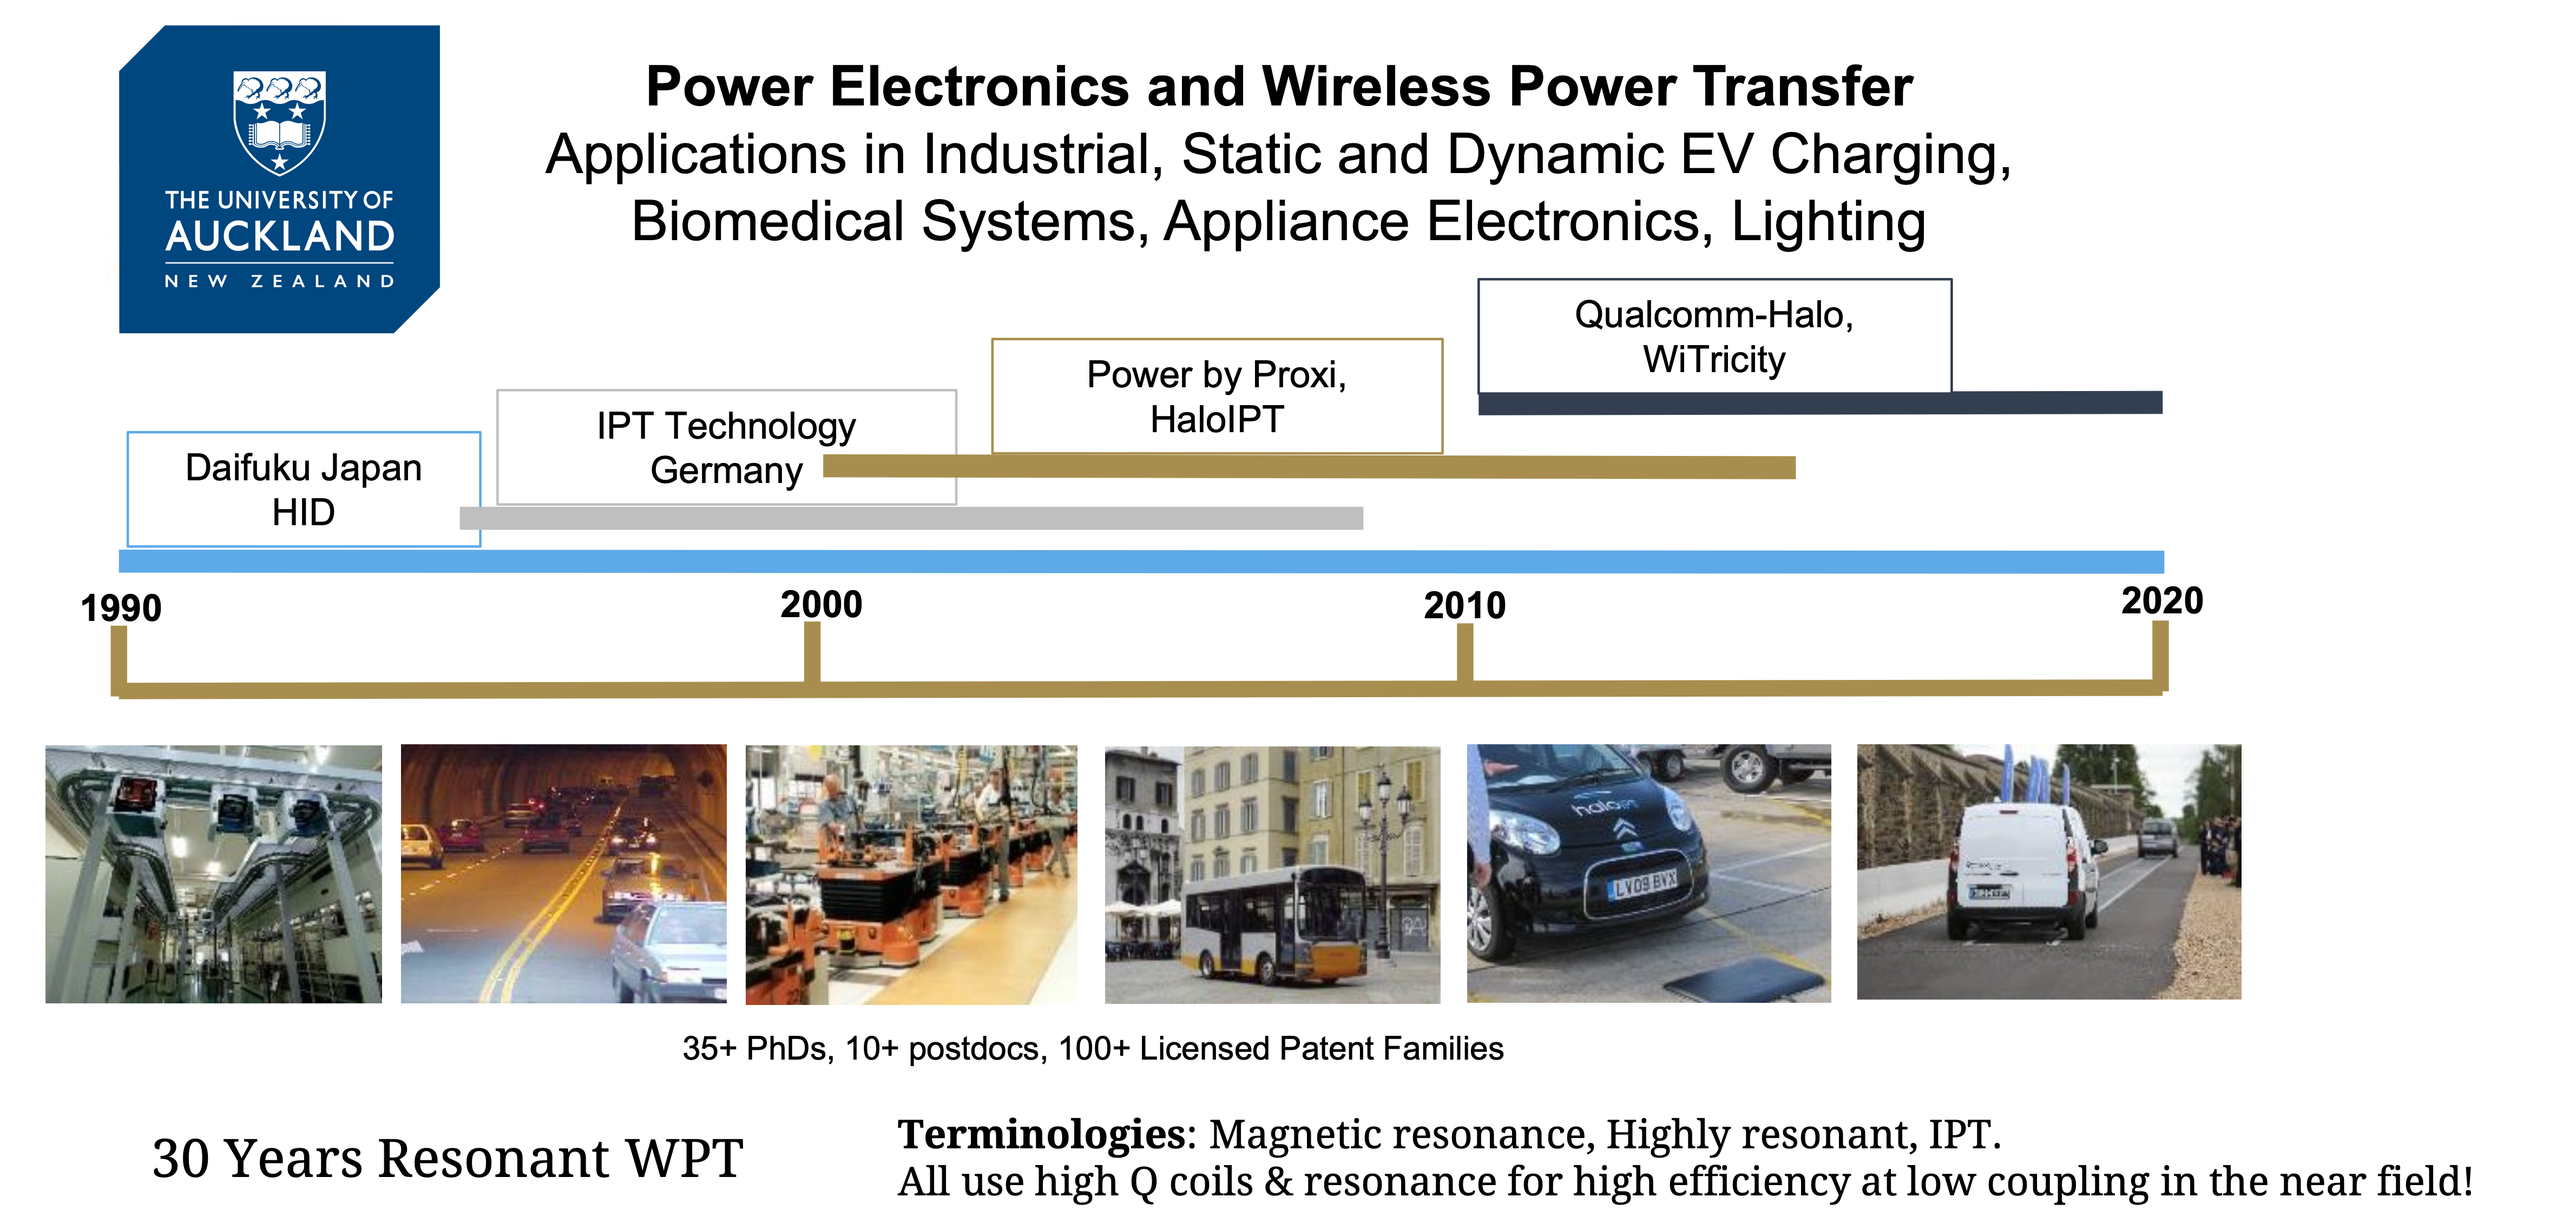
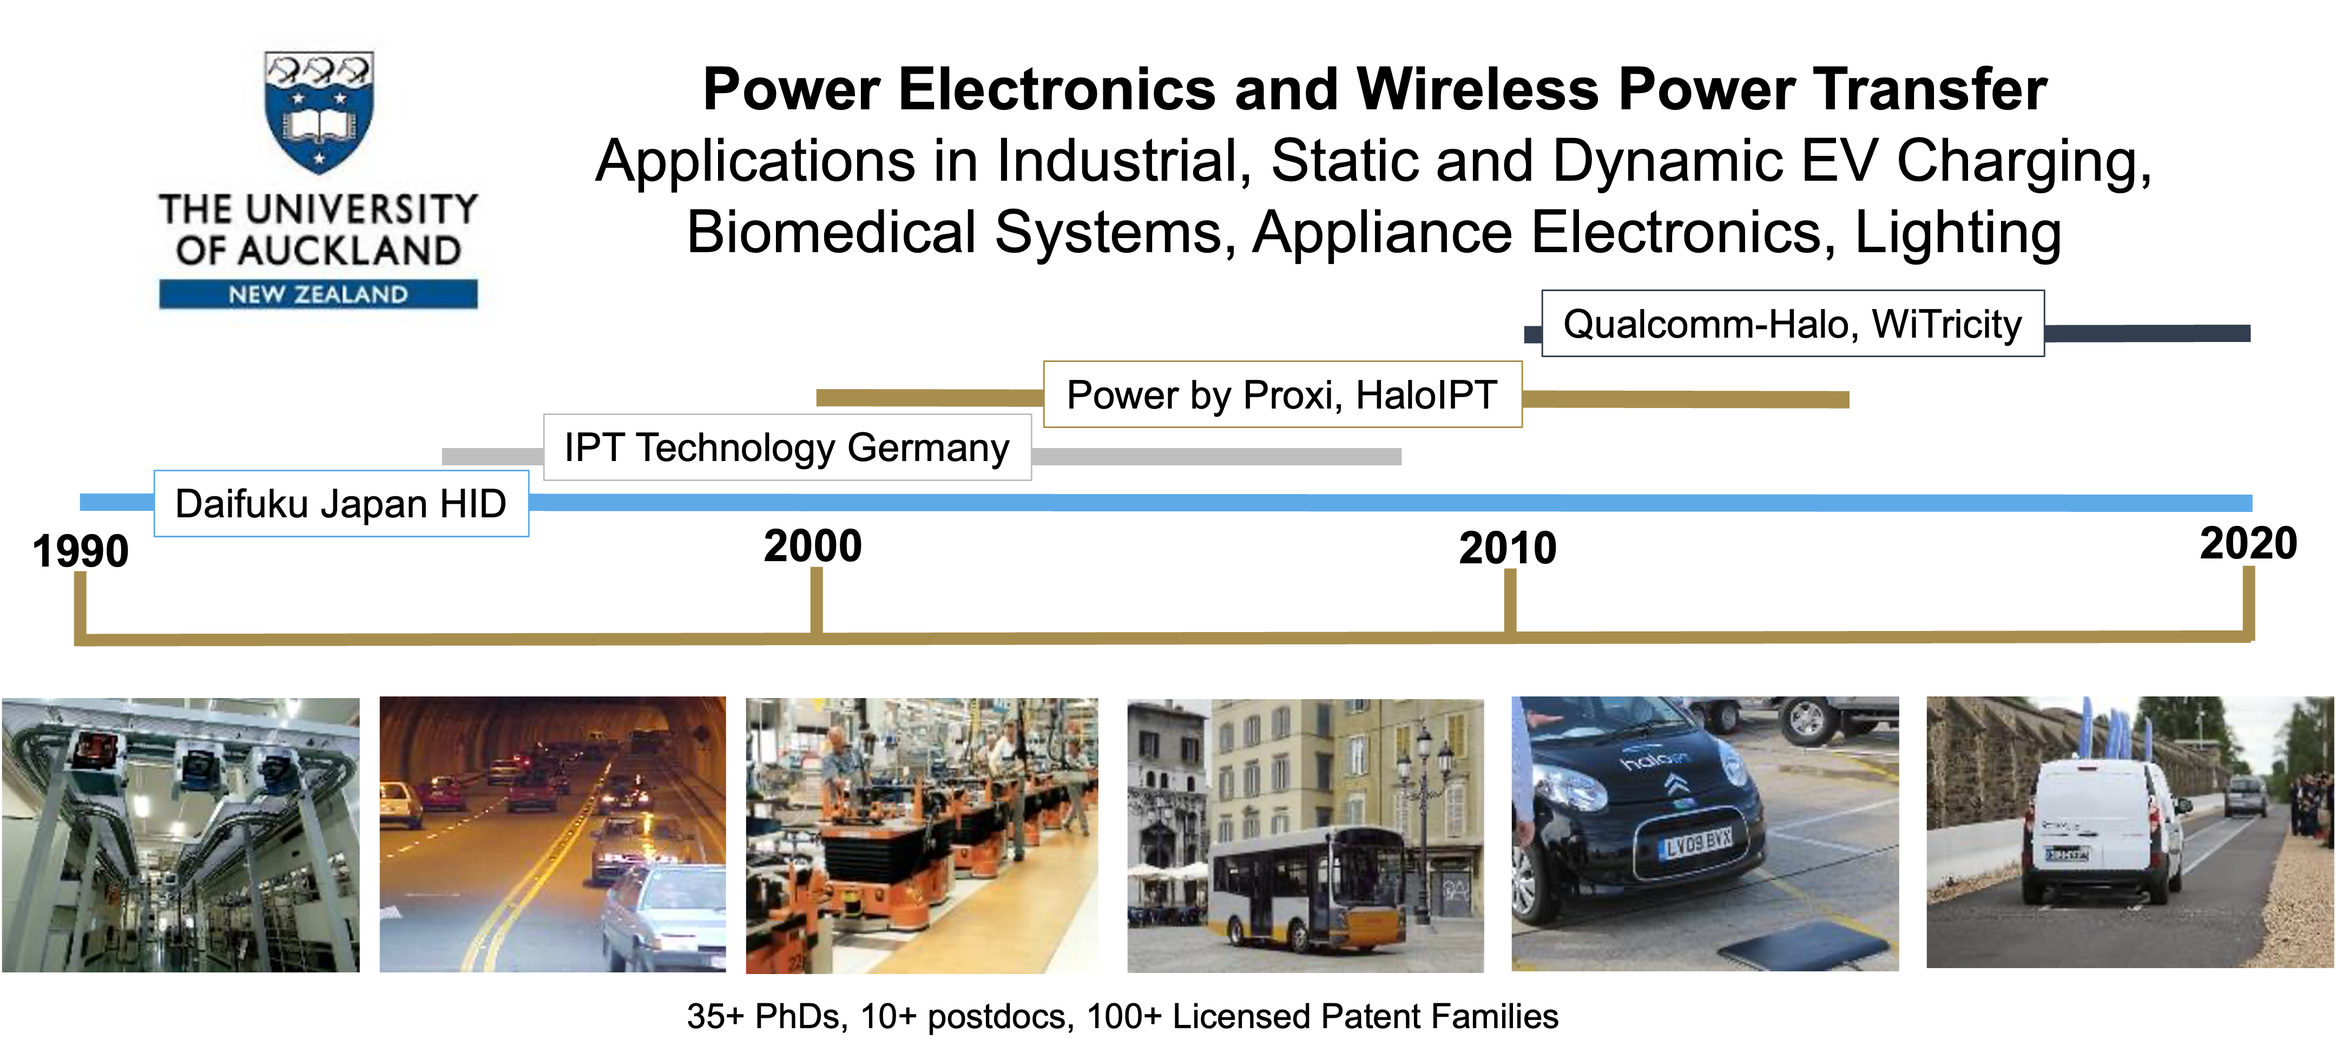
DJT changes added

diff --git a/SeminarsWorkshops/CryoGroupSummaryDJT/presentation.html b/SeminarsWorkshops/CryoGroupSummaryDJT/presentation.html
@@ -171,13 +171,32 @@ layout: true
 name: template_slide
 
 .logo-slide[]
-.footer[[D J Thrimawithana](https://www.linkedin.com/in/duleepajt) and [Aaron Wadsworth](https://www.linkedin.com/in/aaron-wadsworth/), Department of Electrical, Computer, and Software Engineering, The University of Auckland (April 2026)]
+.footer[[D J Thrimawithana](https://www.linkedin.com/in/duleepajt) and [Rupert Power](https://www.linkedin.com/in/aaron-wadsworth/), Department of Electrical, Computer, and Software Engineering, The University of Auckland (April 2026)]
 
 ---
 
 # The JB Wireless Power Technology Center
 
 .center[<img src="img/intro/PEGROUP.gif" height="430">]
+
+---
+
+# What We Do 
+
+.left-column[
+
+- Grid resilience and energy security through, V2G, renewable generation and power conditioning
+- Electrification of heavy industry, primary sectors and autonomous fleets (UAVs/UGVs)
+- High-performance electric propulsion (superconducting and wireless)
+- Power electronics and wireless power for extreme environments (e.g. fusion and space)  
+- Next-generation power electronics for secure AI infrastructure
+- Advanced medical electronics and implantable devices
+]
+
+.right-column[
+.right[<img src="img/WhatWeDo.png" height="400">]
+
+]
 
 ---
 
@@ -200,8 +219,8 @@ layout: false
 count: false
 .logo-title[]
 
-# The Advanced Energy Technology Program
-### An Overview
+# Research Programs
+### A Summary
 
 ---
 
@@ -209,13 +228,29 @@ layout: true
 name: template_slide
 
 .logo-slide[]
-.footer[[D J Thrimawithana](https://www.linkedin.com/in/duleepajt) and [Aaron Wadsworth](https://www.linkedin.com/in/aaron-wadsworth/), Department of Electrical, Computer, and Software Engineering, The University of Auckland (April 2026)]
+.footer[[D J Thrimawithana](https://www.linkedin.com/in/duleepajt) and [Rupert Power](https://www.linkedin.com/in/aaron-wadsworth/), Department of Electrical, Computer, and Software Engineering, The University of Auckland (April 2026)]
 
 ---
 
 name: S1
 
-# Program Overview 
+# Wireless EV Charging and V2G
+
+.center[<img src="img/WPT_MBIE.png" height="430px">]
+
+---
+
+name: S1
+
+# The Team & Partners
+
+.center[<img src="img/People_MBIE.png" height="430px">]
+
+---
+
+name: S1
+
+# Advanced Energy Technology Platforms 
 
 .center[<img src="img/overview/program.png" height="410px">]
 
@@ -231,65 +266,61 @@ name: S1
 
 .center[<img src="img/overview/system.png" height="410px">]
 
+---
+
+class: title-slide
+layout: false
+count: false
+.logo-title[]
+
+# Cryogenic Power Technologies
+### An Overview of Developments 
+
+---
+
+layout: true
+name: template_slide
+
+.logo-slide[]
+.footer[[D J Thrimawithana](https://www.linkedin.com/in/duleepajt) and [Rupert Power](https://www.linkedin.com/in/aaron-wadsworth/), Department of Electrical, Computer, and Software Engineering, The University of Auckland (April 2026)]
+
+---
+name: S19
+
+# Power Converters and Magnetics
+
+.center[<img src="img/Cryo_Power.png" height="440px">]
 
 ---
 
 name: S19
 
-# GaN Half Bridge and Magnetics
+# Reliability & Radiation Testing
 
-.center[<img src="img/gan/evolution.png" height="410px">]
+- Preliminary characterisation of device behaviour under ionising radiation 
+ - Characterisation of device behaviour under neutron radiation and under X-Ray radiation 
+ - Further detailed studies are ongoing under the Horizon Europe ARCTIC project
+- Measurement of device dynamic performance
 
----
-name: S19
-
-# Driving Low-Inductance Electric Machines
-
-- A homopolar machine with an HTS field winding has been driven using both cryogenic and RT benchmark inverters
- - Spun to 24,000rpm at Air New Zealand's Auckland Test Cell
-- EMRAX back-to-back demonstration system run at 6000rpm and 10kW, further tests to follow
-
-.center[<img src="img/motor/testcellcontrol.jpg" height="320px">     <img src="img/motor/emrax.jpg" height="320px">]
-
----
-
-name: S19
-
-# Radiation Testing of GaN HEMTs
-
-- Preliminary characterisation of drain leakage under neutron radiation at Birmingham cyclotron facility
-- Characterisation of gate leakage under xray source at GNS NZ
-
-.center[<img src="img/radiation/cyclotron.jpg" height="330px"><img src="img/radiation/data.png" width="50%">]
+.center[<img src="img/radiation/radiation_testing.png" height="300px">]
 
 ---
 name: S8
 
-# Ancilary Circuits
+# Ancillary and Digital Circuits 
 
 - Prototypes of all the critical subsystems needed to build cryogenic power electronics systems
- - Capacitors
- - Current Sensors
- - Digital Isolators, OpAmps, Comparators, MCUs and FPGAs
- - Voltage References, regulators and Zener Diodes
- - Custom Built Linear Regulator & Resonant Switchers
+ - Capacitors, current sensors, iosolators, OpAmps, comparators, logic devices have been identified and characterised
+ - MCUs, CPLDs and FPGAs needed to implement the digital control has been identified and characterised
+- Custom regulator, references, digital control platforms and hardware protection cicuitry for wide temperature ranges
 
-.center[<img src="img/ancilary/New_Driver.png" width="20%"><img src="img/ancilary/Linear.png" width="20%"><img src="img/ancilary/Resonant_Core.png" width="20%"><img src="img/ancilary/RP2040.jpg" width="20%">]
+.center[<img src="img/ancilary/ancillary_combined.png" height="200px">]
 
 ---
-# Resistance of Cu Traces/Interconnects
-
-- The contribution of the solder joints and PCB traces to overall D-S resistance have been investigated 
- - A 2 Oz PCB contributes rougly 200 uOhms at RT and 22 uOhms at CT
- - Contribution of solder joints and trace resistance is however significant for smaller devices, specially GaNs
-
-.center[<img src="img/fluxpump/SolderJoints.png" height="300px">]
-
----
-# Solid State Flux Pump with Aircore Transformer
+# Solid State Flux Pump
 
 - A 200A solid-state flux pump was developed to measure the critical current of an HTS tape
- - 8 ultra-low Rds on Si FET was used to rectify while keeping the losses low
+- Ultra-low Rds on Si FETs were used and we are exploring cryogenic electronics and new magnetics to improve efficiency for kA level currents
 
 .center[<img src="img/fluxpump/CurrentDoubler.jpg" height="300px"> <img src="img/fluxpump/CurrentDoubler_2.png" height="300px">] 
 
@@ -308,9 +339,22 @@ name: S19
 ---
 name: S19
 
+# Testing at Higher TRL Levels
+
+- A homopolar machine with an HTS field winding has been driven using both cryogenic and RT benchmark inverters
+ - Spun to 24,000rpm at Air New Zealand's Auckland Test Cell
+ - Coupled as a generator with an APU
+- EMRAX back-to-back demonstration system run at 6000rpm and 10kW, further tests to follow
+
+.center[<img src="img/motor/testcellcontrol.jpg" height="250px">     <img src="img/motor/emrax.jpg" height="250px">]
+
+---
+name: S19
+
 # Conclusions and Observations  
 
 - Cryoelectronics is in-demand for applications such as aviation, space exploration, nuclear fusion, future circular collider, etc.
+ - We are working with a number of industry and academic partners to advance cryoelectronic technologies in all these sectors
 - Long haul commercial flights will most likely require LH2 as a fuel
  - Has sufficient thermal capacity to cool the electronics 
 - Developing a cryoelectronic converter seems possible with current device technology 
